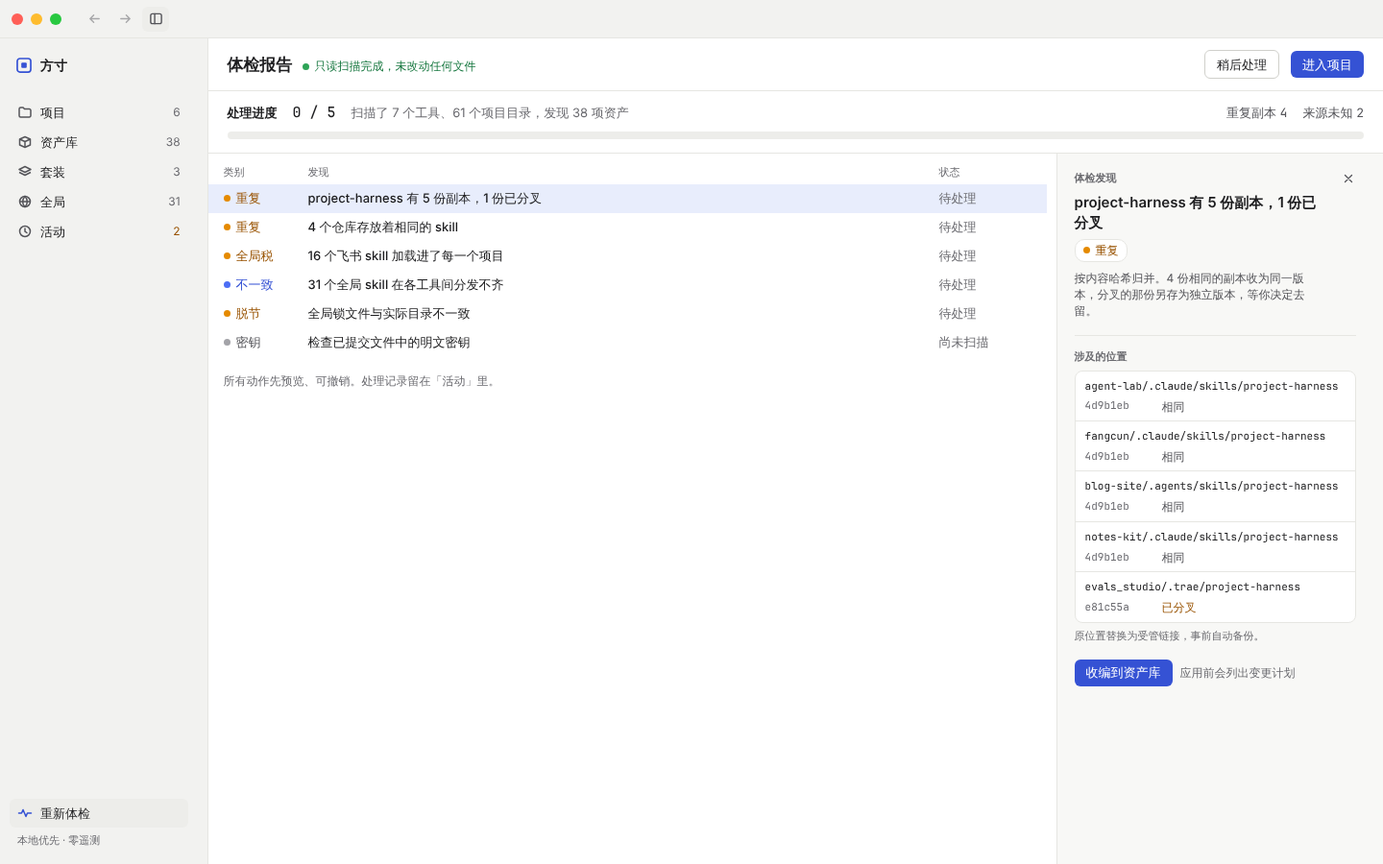
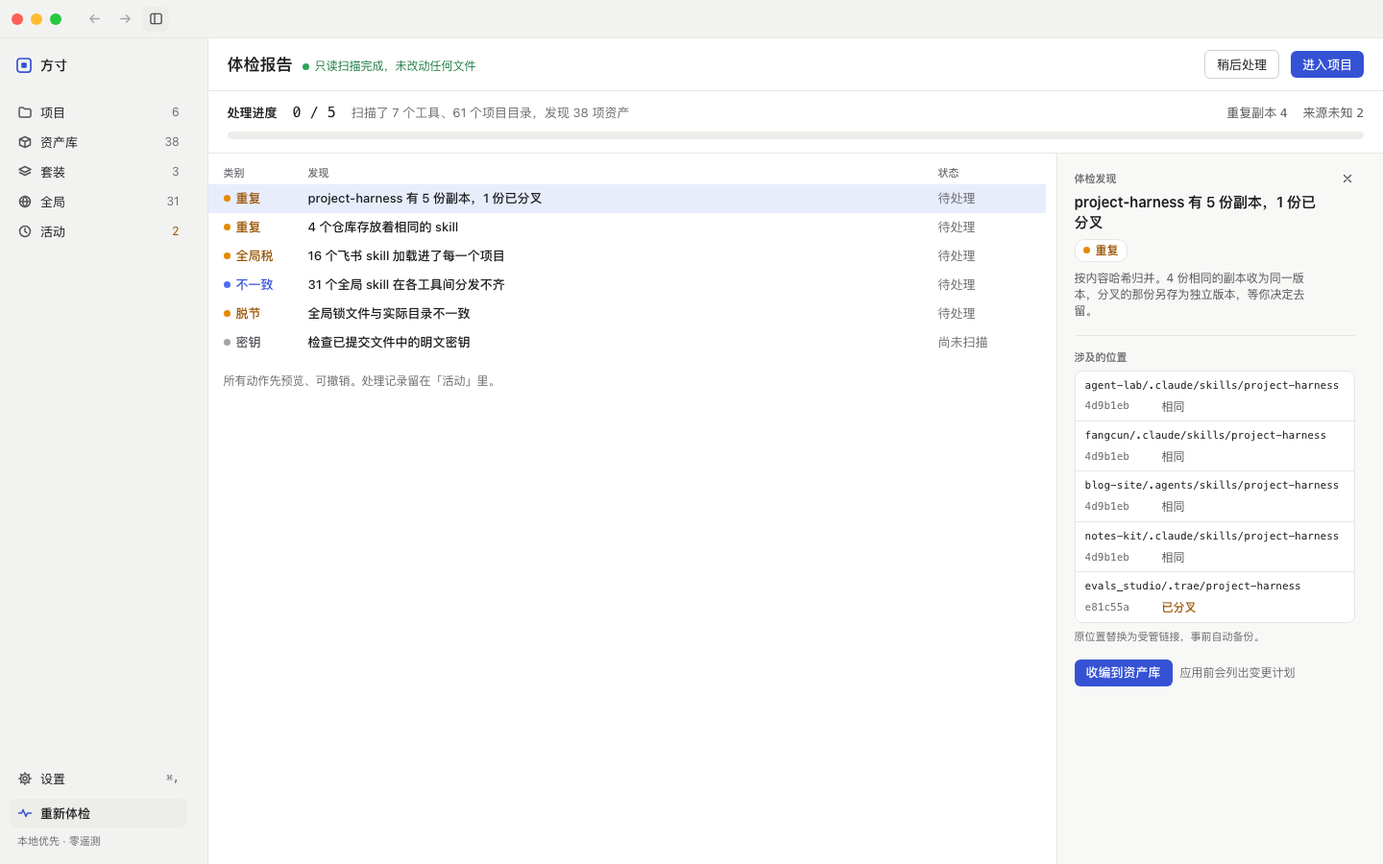
Sidebar: add a Settings entry above Re-run checkup
The human could not find a way into Settings from the sidebar. Every
page board now has a Settings row (gear, ⌘, hint) at the bottom of the
sidebar; on the Settings board the rail's gear shows as selected.
Design doc 6.1 and 9.3 updated; canvas synced to 1795189731-cf46.

diff --git a/prototype/project/Settings.dc.html b/prototype/project/Settings.dc.html
@@ -70,6 +70,10 @@ body{margin:0}
         <svg width="16" height="16" viewBox="0 0 16 16" fill="none" stroke="currentColor" stroke-width="1.5" stroke-linecap="round" aria-hidden="true" style="flex: none; color: var(--tx-2);"><circle cx="8" cy="8" r="5.5"></circle><path d="M8 5v3l2 1.5"></path></svg>
         <span class="{{labelClass}}" style="flex: 1;">活动</span>
       </a>
+      <a href="Settings.dc.html" aria-current="page" class="fc-h" title="设置（⌘,）" style="{{settingsStyle}}">
+        <svg width="16" height="16" viewBox="0 0 16 16" fill="none" stroke="currentColor" stroke-width="1.5" stroke-linecap="round" stroke-linejoin="round" aria-hidden="true" style="flex: none; color: var(--accent);"><circle cx="8" cy="8" r="2"></circle><path d="M8 1.75v1.5M8 12.75v1.5M1.75 8h1.5M12.75 8h1.5M3.6 3.6l1.05 1.05M11.35 11.35l1.05 1.05M3.6 12.4l1.05-1.05M11.35 4.65l1.05-1.05"></path><circle cx="8" cy="8" r="4.5"></circle></svg>
+        <span class="{{labelClass}}" style="flex: 1;">设置</span>
+      </a>
       <a href="Checkup.dc.html" class="fc-h" title="重新体检" style="{{checkupStyle}}">
         <svg width="16" height="16" viewBox="0 0 16 16" fill="none" stroke="currentColor" stroke-width="1.5" stroke-linecap="round" stroke-linejoin="round" aria-hidden="true" style="flex: none; color: var(--tx-2);"><path d="M1.5 8h3l1.5-3.5 3 7 1.5-3.5h4"></path></svg>
         <span class="{{labelClass}}">重新体检</span>
@@ -146,7 +150,8 @@ class Component extends DCLogic {
       // 进设置时导航折成 56px 图标栏；工具栏的侧栏开关可以临时展开。
       railStyle: 'flex: 0 0 ' + (open ? '216px' : '56px') + '; box-sizing: border-box; background: var(--bg-sidebar); border-right: 1px solid var(--line); padding: 12px ' + (open ? '10px' : '8px') + ' 16px; display: flex; flex-direction: column; gap: 1px;',
       navItemStyle: 'display: flex; align-items: center; gap: 8px; height: 30px; padding: 0 ' + (open ? '8px' : '0') + '; border-radius: 6px; color: var(--tx-1); text-decoration: none;' + (open ? '' : ' justify-content: center;'),
-      checkupStyle: 'margin-top: auto; display: flex; align-items: center; gap: 8px; height: 30px; padding: 0 ' + (open ? '8px' : '0') + '; border-radius: 6px; color: var(--tx-1); text-decoration: none;' + (open ? '' : ' justify-content: center;'),
+      settingsStyle: 'margin-top: auto; display: flex; align-items: center; gap: 8px; height: 30px; padding: 0 ' + (open ? '8px' : '0') + '; border-radius: 6px; background: var(--bg-hover); color: var(--tx-1); text-decoration: none; font-weight: 500;' + (open ? '' : ' justify-content: center;'),
+      checkupStyle: 'margin-top: 6px; display: flex; align-items: center; gap: 8px; height: 30px; padding: 0 ' + (open ? '8px' : '0') + '; border-radius: 6px; color: var(--tx-1); text-decoration: none;' + (open ? '' : ' justify-content: center;'),
       labelClass: open ? '' : 'fc-sr',
       navLabel: open ? '折叠侧栏' : '展开侧栏', navExpanded: open ? 'true' : 'false',
       navBtnStyle: 'width: 28px; height: 26px; display: inline-flex; align-items: center; justify-content: center; border: 0; border-radius: 6px; color: var(--tx-2); background: ' + (open ? 'var(--bg-hover)' : 'transparent') + ';',

diff --git a/prototype/project/Checkup.dc.html b/prototype/project/Checkup.dc.html
@@ -71,6 +71,10 @@ body{margin:0}
       </a>
     </div>
     <div style="margin-top: auto; display: flex; flex-direction: column; gap: 6px;">
+      <a href="Settings.dc.html" class="fc-h" title="设置（⌘,）" style="display: flex; align-items: center; gap: 8px; height: 30px; padding: 0 8px; border-radius: 6px; color: var(--tx-1); text-decoration: none;">
+        <svg width="16" height="16" viewBox="0 0 16 16" fill="none" stroke="currentColor" stroke-width="1.5" stroke-linecap="round" stroke-linejoin="round" aria-hidden="true" style="flex: none; color: var(--tx-2);"><circle cx="8" cy="8" r="2"></circle><path d="M8 1.75v1.5M8 12.75v1.5M1.75 8h1.5M12.75 8h1.5M3.6 3.6l1.05 1.05M11.35 11.35l1.05 1.05M3.6 12.4l1.05-1.05M11.35 4.65l1.05-1.05"></path><circle cx="8" cy="8" r="4.5"></circle></svg>
+        <span style="flex: 1;">设置</span><span style="font-family: var(--mono); font-size: 11px; color: var(--tx-3);">⌘,</span>
+      </a>
       <a href="Checkup.dc.html" aria-current="page" class="fc-h" style="display: flex; align-items: center; gap: 8px; height: 30px; padding: 0 8px; border-radius: 6px; background: var(--bg-hover); color: var(--tx-1); text-decoration: none; font-weight: 500;">
         <svg width="16" height="16" viewBox="0 0 16 16" fill="none" stroke="currentColor" stroke-width="1.5" stroke-linecap="round" stroke-linejoin="round" aria-hidden="true" style="color: var(--accent);"><path d="M1.5 8h3l1.5-3.5 3 7 1.5-3.5h4"></path></svg>
         <span>重新体检</span>

diff --git a/prototype/project/Activity.dc.html b/prototype/project/Activity.dc.html
@@ -74,6 +74,10 @@ body{margin:0}
       </a>
     </div>
     <div style="margin-top: auto; display: flex; flex-direction: column; gap: 6px;">
+      <a href="Settings.dc.html" class="fc-h" title="设置（⌘,）" style="display: flex; align-items: center; gap: 8px; height: 30px; padding: 0 8px; border-radius: 6px; color: var(--tx-1); text-decoration: none;">
+        <svg width="16" height="16" viewBox="0 0 16 16" fill="none" stroke="currentColor" stroke-width="1.5" stroke-linecap="round" stroke-linejoin="round" aria-hidden="true" style="flex: none; color: var(--tx-2);"><circle cx="8" cy="8" r="2"></circle><path d="M8 1.75v1.5M8 12.75v1.5M1.75 8h1.5M12.75 8h1.5M3.6 3.6l1.05 1.05M11.35 11.35l1.05 1.05M3.6 12.4l1.05-1.05M11.35 4.65l1.05-1.05"></path><circle cx="8" cy="8" r="4.5"></circle></svg>
+        <span style="flex: 1;">设置</span><span style="font-family: var(--mono); font-size: 11px; color: var(--tx-3);">⌘,</span>
+      </a>
       <a href="Checkup.dc.html" class="fc-h" style="display: flex; align-items: center; gap: 8px; height: 30px; padding: 0 8px; border-radius: 6px; color: var(--tx-1); text-decoration: none;">
         <svg width="16" height="16" viewBox="0 0 16 16" fill="none" stroke="currentColor" stroke-width="1.5" stroke-linecap="round" stroke-linejoin="round" aria-hidden="true" style="color: var(--tx-2);"><path d="M1.5 8h3l1.5-3.5 3 7 1.5-3.5h4"></path></svg>
         <span>重新体检</span>

diff --git a/prototype/project/Bundles.dc.html b/prototype/project/Bundles.dc.html
@@ -72,6 +72,10 @@ body{margin:0}
       </a>
     </div>
     <div style="margin-top: auto; display: flex; flex-direction: column; gap: 6px;">
+      <a href="Settings.dc.html" class="fc-h" title="设置（⌘,）" style="display: flex; align-items: center; gap: 8px; height: 30px; padding: 0 8px; border-radius: 6px; color: var(--tx-1); text-decoration: none;">
+        <svg width="16" height="16" viewBox="0 0 16 16" fill="none" stroke="currentColor" stroke-width="1.5" stroke-linecap="round" stroke-linejoin="round" aria-hidden="true" style="flex: none; color: var(--tx-2);"><circle cx="8" cy="8" r="2"></circle><path d="M8 1.75v1.5M8 12.75v1.5M1.75 8h1.5M12.75 8h1.5M3.6 3.6l1.05 1.05M11.35 11.35l1.05 1.05M3.6 12.4l1.05-1.05M11.35 4.65l1.05-1.05"></path><circle cx="8" cy="8" r="4.5"></circle></svg>
+        <span style="flex: 1;">设置</span><span style="font-family: var(--mono); font-size: 11px; color: var(--tx-3);">⌘,</span>
+      </a>
       <a href="Checkup.dc.html" class="fc-h" style="display: flex; align-items: center; gap: 8px; height: 30px; padding: 0 8px; border-radius: 6px; color: var(--tx-1); text-decoration: none;">
         <svg width="16" height="16" viewBox="0 0 16 16" fill="none" stroke="currentColor" stroke-width="1.5" stroke-linecap="round" stroke-linejoin="round" aria-hidden="true" style="color: var(--tx-2);"><path d="M1.5 8h3l1.5-3.5 3 7 1.5-3.5h4"></path></svg>
         <span>重新体检</span>

diff --git a/prototype/project/Global.dc.html b/prototype/project/Global.dc.html
@@ -74,6 +74,10 @@ body{margin:0}
       </a>
     </div>
     <div style="margin-top: auto; display: flex; flex-direction: column; gap: 6px;">
+      <a href="Settings.dc.html" class="fc-h" title="设置（⌘,）" style="display: flex; align-items: center; gap: 8px; height: 30px; padding: 0 8px; border-radius: 6px; color: var(--tx-1); text-decoration: none;">
+        <svg width="16" height="16" viewBox="0 0 16 16" fill="none" stroke="currentColor" stroke-width="1.5" stroke-linecap="round" stroke-linejoin="round" aria-hidden="true" style="flex: none; color: var(--tx-2);"><circle cx="8" cy="8" r="2"></circle><path d="M8 1.75v1.5M8 12.75v1.5M1.75 8h1.5M12.75 8h1.5M3.6 3.6l1.05 1.05M11.35 11.35l1.05 1.05M3.6 12.4l1.05-1.05M11.35 4.65l1.05-1.05"></path><circle cx="8" cy="8" r="4.5"></circle></svg>
+        <span style="flex: 1;">设置</span><span style="font-family: var(--mono); font-size: 11px; color: var(--tx-3);">⌘,</span>
+      </a>
       <a href="Checkup.dc.html" class="fc-h" style="display: flex; align-items: center; gap: 8px; height: 30px; padding: 0 8px; border-radius: 6px; color: var(--tx-1); text-decoration: none;">
         <svg width="16" height="16" viewBox="0 0 16 16" fill="none" stroke="currentColor" stroke-width="1.5" stroke-linecap="round" stroke-linejoin="round" aria-hidden="true" style="color: var(--tx-2);"><path d="M1.5 8h3l1.5-3.5 3 7 1.5-3.5h4"></path></svg>
         <span>重新体检</span>

diff --git a/prototype/project/Library.dc.html b/prototype/project/Library.dc.html
@@ -72,6 +72,10 @@ body{margin:0}
       </a>
     </div>
     <div style="margin-top: auto; display: flex; flex-direction: column; gap: 6px;">
+      <a href="Settings.dc.html" class="fc-h" title="设置（⌘,）" style="display: flex; align-items: center; gap: 8px; height: 30px; padding: 0 8px; border-radius: 6px; color: var(--tx-1); text-decoration: none;">
+        <svg width="16" height="16" viewBox="0 0 16 16" fill="none" stroke="currentColor" stroke-width="1.5" stroke-linecap="round" stroke-linejoin="round" aria-hidden="true" style="flex: none; color: var(--tx-2);"><circle cx="8" cy="8" r="2"></circle><path d="M8 1.75v1.5M8 12.75v1.5M1.75 8h1.5M12.75 8h1.5M3.6 3.6l1.05 1.05M11.35 11.35l1.05 1.05M3.6 12.4l1.05-1.05M11.35 4.65l1.05-1.05"></path><circle cx="8" cy="8" r="4.5"></circle></svg>
+        <span style="flex: 1;">设置</span><span style="font-family: var(--mono); font-size: 11px; color: var(--tx-3);">⌘,</span>
+      </a>
       <a href="Checkup.dc.html" class="fc-h" style="display: flex; align-items: center; gap: 8px; height: 30px; padding: 0 8px; border-radius: 6px; color: var(--tx-1); text-decoration: none;">
         <svg width="16" height="16" viewBox="0 0 16 16" fill="none" stroke="currentColor" stroke-width="1.5" stroke-linecap="round" stroke-linejoin="round" aria-hidden="true" style="color: var(--tx-2);"><path d="M1.5 8h3l1.5-3.5 3 7 1.5-3.5h4"></path></svg>
         <span>重新体检</span>

diff --git a/prototype/project/Main.dc.html b/prototype/project/Main.dc.html
@@ -103,6 +103,10 @@ body{margin:0}
     </div>
 
     <div style="margin-top: auto; display: flex; flex-direction: column; gap: 6px;">
+      <a href="Settings.dc.html" class="fc-h" title="设置（⌘,）" style="display: flex; align-items: center; gap: 8px; height: 30px; padding: 0 8px; border-radius: 6px; color: var(--tx-1); text-decoration: none;">
+        <svg width="16" height="16" viewBox="0 0 16 16" fill="none" stroke="currentColor" stroke-width="1.5" stroke-linecap="round" stroke-linejoin="round" aria-hidden="true" style="flex: none; color: var(--tx-2);"><circle cx="8" cy="8" r="2"></circle><path d="M8 1.75v1.5M8 12.75v1.5M1.75 8h1.5M12.75 8h1.5M3.6 3.6l1.05 1.05M11.35 11.35l1.05 1.05M3.6 12.4l1.05-1.05M11.35 4.65l1.05-1.05"></path><circle cx="8" cy="8" r="4.5"></circle></svg>
+        <span style="flex: 1;">设置</span><span style="font-family: var(--mono); font-size: 11px; color: var(--tx-3);">⌘,</span>
+      </a>
       <a href="Checkup.dc.html" class="fc-h" style="display: flex; align-items: center; gap: 8px; height: 30px; padding: 0 8px; border-radius: 6px; color: var(--tx-1); text-decoration: none;">
         <svg width="16" height="16" viewBox="0 0 16 16" fill="none" stroke="currentColor" stroke-width="1.5" stroke-linecap="round" stroke-linejoin="round" aria-hidden="true" style="color: var(--tx-2);"><path d="M1.5 8h3l1.5-3.5 3 7 1.5-3.5h4"></path></svg>
         <span>重新体检</span>

diff --git a/docs/product-design.md b/docs/product-design.md
@@ -302,13 +302,13 @@ fangcun --yes <命令>           # 不问，直接应用变更计划
 - **主窗口**：自上而下是整窗工具栏，下面是侧栏、列表、检查器三栏。
 - **菜单栏常驻图标**：有漂移或可更新时图标右上角亮一个小圆点，展开的菜单里写待处理数，与活动页的待处理数一致，可快速跳到项目。图标的画法见 6.10。
 - **命令面板** `⌘K`：搜索资产、项目、动作。键盘优先。
-- **设置**：应用菜单的「设置…」或 `⌘,` 打开，显示在主窗口里，不另开窗口。侧栏折成 56px 图标栏，旁边是设置目录，右边是设置内容；点图标栏的导航项回到对应页面。先只有「通用」一页，页内分两组：「写入」放只读模式开关（7.5），「快照」放保留期（天数和每个项目至少保留几个，6.7）。目录上方不放搜索框，设置多了再加。设置存在 `~/.fangcun/settings.toml`，可以手改。
+- **设置**：应用菜单的「设置…」或 `⌘,` 打开，显示在主窗口里，不另开窗口。侧栏底部也有入口「设置」，见下面「侧栏」。打开后侧栏折成 56px 图标栏，旁边是设置目录，右边是设置内容；点图标栏的导航项回到对应页面。先只有「通用」一页，页内分两组：「写入」放只读模式开关（7.5），「快照」放保留期（天数和每个项目至少保留几个，6.7）。目录上方不放搜索框，设置多了再加。设置存在 `~/.fangcun/settings.toml`，可以手改。
 - **命令行** `fangcun`：见上节。
 
 **窗口骨架**，所有页面共用：
 
 - **整窗工具栏**：高 40px，贯穿窗口顶部。从左到右依次是窗口按钮、后退与前进、侧栏开关。窗口控件只出现在这里，侧栏折叠与否都不影响左上角。
-- **侧栏**：顶部是「方寸」标识，下面五个导航项：**项目**、**资产库**、**套装**、**全局**、**活动**。前四项旁的灰色数字是数量，「活动」旁的橙色数字是待处理数。项目页下方列出已登记项目及其状态点。M0 没有登记，列的是近 30 天会话记录里出现过的工作目录，往上归到 git 根目录（主目录本身、临时目录、主目录下的点目录不算），分组标题写「近 30 天的项目」。M1 起分两组：上面是「已登记项目」，下面「近 30 天的项目」只列还没登记的目录，标「未登记」，选中后检查器里有「登记」。未登记的目录照常只读显示生效上下文，和 M0 一样：页头标「未登记」，不出「同步」。两组下面是「添加项目…」，选一个目录登记（F3）。底部固定「重新体检」，下面一行小字「本地优先 · 零遥测」。侧栏可折叠为 56px 宽的图标栏，此时只保留导航图标。
+- **侧栏**：顶部是「方寸」标识，下面五个导航项：**项目**、**资产库**、**套装**、**全局**、**活动**。前四项旁的灰色数字是数量，「活动」旁的橙色数字是待处理数。项目页下方列出已登记项目及其状态点。M0 没有登记，列的是近 30 天会话记录里出现过的工作目录，往上归到 git 根目录（主目录本身、临时目录、主目录下的点目录不算），分组标题写「近 30 天的项目」。M1 起分两组：上面是「已登记项目」，下面「近 30 天的项目」只列还没登记的目录，标「未登记」，选中后检查器里有「登记」。未登记的目录照常只读显示生效上下文，和 M0 一样：页头标「未登记」，不出「同步」。两组下面是「添加项目…」，选一个目录登记（F3）。底部固定「设置」（齿轮图标，右边灰字 `⌘,`）和「重新体检」，下面一行小字「本地优先 · 零遥测」。侧栏可折叠为 56px 宽的图标栏，此时只保留导航图标。
 - **列表与检查器**：选中列表中的一行，右侧检查器显示详情。检查器右上角有 × 关闭按钮，关闭后列表占满宽度；再点任意一行即重新打开。
 - **分栏独立滚动**：窗口固定为一屏高，侧栏、列表、检查器各自滚动，滚动一栏时其他栏不动。窗口窄于 900px 时，各栏改为上下堆叠，整页滚动。
 
@@ -1096,12 +1096,13 @@ git-commit = { source = "local:luyao-skills", pin = "0d81aa3" }
 |---|---|
 | 选中未登记的目录时列表区显示什么 | 照常只读显示生效上下文，和 M0 一样；页头标「未登记」，不出「同步」（6.1） |
 
-**设置改成主窗口内（M1-24）**，2026-11-20 人看了 P-03 的原型后改，两件都选了推荐项。
+**设置改成主窗口内（M1-24）**，2026-11-20 人看了 P-03 的原型后改，三件都选了推荐项。
 
 | 事项 | 结论 |
 |---|---|
 | 设置在哪里打开 | `⌘,` 或「设置…」后在主窗口里显示：侧栏折成 56px 图标栏，旁边是设置目录，右边是内容。不另开窗口（6.1） |
 | 目录怎么分 | 先只有一页「通用」，页内分「写入」「快照」两组；不放搜索框（6.1） |
+| 侧栏里的入口 | 侧栏底部「重新体检」上面加一行「设置」，右边灰字 `⌘,`；折成图标栏时只留齿轮，在设置页里显示为选中（6.1） |
 
 ### 9.4 建议的下一步
 

diff --git a/docs/BACKLOG.md b/docs/BACKLOG.md
@@ -53,6 +53,7 @@
 - [x] P-02 项目页画板（Main）的侧栏：「近 30 天的项目」一组下面加「添加项目…」；选中 luyao-skills（未登记）时，检查器里有「登记」按钮；点「登记」后先问一次物化方式（链接 / 入库，按提交者人数给建议），再出变更计划。出处：6.1、F3、9.2「默认物化方式」、M1-pre-06。2026-11-20 完成；列表区照常只读显示生效上下文（人定，9.3），人看 H-08
 - [x] P-03 新画板「设置」（Settings）：应用菜单「设置…」/ `⌘,` 打开的单独小窗，macOS 标准样式，只有「通用」一页：「只读模式」开关（说明一句：打开后拒绝一切写入，只记体检）、「快照保留期」两项（保留天数，默认 30；每个项目至少保留，默认 20）。深浅两套。出处：6.1「设置窗口」、6.7、7.5、M1-24。2026-11-20 完成，人看 H-08
 - [x] P-04 设置画板（Settings）改成主窗口内、Codex 的样式：`⌘,` 后侧栏折成 56px 图标栏，旁边是设置目录（只有「通用」），右边内容分「写入」「快照」两组卡片，不放搜索框；深浅色用画板的 `dark` 调节项。出处：6.1「设置」、9.3（2026-11-20 人看了 P-03 后改）。2026-11-20 完成，画布 1795189539-47ed
+- [x] P-05 全部页面画板（Main、Checkup、Library、Bundles、Global、Activity）的侧栏底部、「重新体检」上面加「设置」（齿轮，右边灰字 `⌘,`）；Settings 画板图标栏的齿轮显示为选中。出处：6.1「侧栏」、9.3（2026-11-20 人说找不到入口）。2026-11-20 完成，画布 1795189731-cf46
 
 ## 设计与原型
 
@@ -173,7 +174,7 @@
 - [ ] M1-20 界面：资产库页，照原型 Library。来源未知的项在底部给「收编到资产库」。出处：6.4
 - [ ] M1-21 界面：套装页，照原型 Bundles。出处：6.5
 - [ ] M1-22 界面：项目页检查器的来源未知块「在资产库中收编」，以及命令面板 `⌘K`（搜索、回车加入、弹变更计划）。`fangcun add`。出处：6.3、6.9
-- [ ] M1-24 设置页：只读模式（7.5）、快照保留期（6.7）都写「在设置里」。现在能手改 `~/.fangcun/settings.toml`。出处：6.1、6.7、7.5。2026-11-19 人定：macOS 标准的「设置…」小窗（`⌘,`），先只有「通用」一页，写进 6.1、9.3。2026-11-20 人改成主窗口内、Codex 的样式（6.1、9.3），原型 P-04 已就绪（Settings 画板，1795189539-47ed）
+- [ ] M1-24 设置页：只读模式（7.5）、快照保留期（6.7）都写「在设置里」。现在能手改 `~/.fangcun/settings.toml`。出处：6.1、6.7、7.5。2026-11-19 人定：macOS 标准的「设置…」小窗（`⌘,`），先只有「通用」一页，写进 6.1、9.3。2026-11-20 人改成主窗口内、Codex 的样式（6.1、9.3），侧栏底部加「设置」入口（P-05）。原型已就绪（Settings 画板与各页侧栏，1795189731-cf46）
 - [ ] M1-23 命令行对齐：第 5 节「配套：命令行」的每条命令都能用，`why`、`log` 覆盖 M1 的新记录类型；界面每个写入动作在活动页附命令。出处：第 5 节、6.7
 
 不在 M1：菜单栏常驻图标（6.1，等 D-30 出图后排）、V1.x 起的事。

diff --git a/docs/DECISIONS.md b/docs/DECISIONS.md
@@ -17,7 +17,8 @@
   - P-02 登记：未登记时不出「清单」「历史」两个页签（没有清单，也没有写入记录）；列表顶上一句「未登记：下面是 Claude Code 在这个目录实际加载的内容，只读」。侧栏项目行改成可点的按钮（示例只有 evals_studio、luyao-skills 能切换）；未登记时检查器显示「项目」卡片（路径、清单、提交者、常驻）和「登记…」按钮；登记弹窗两个选项「链接」「入库」，按提交者人数标「建议」并写出依据；变更计划写 3 个文件：`fangcun.toml`、`fangcun.lock`、`~/.fangcun/projects.toml`（照内核 `plan_init`）；应用后留快照 #128，检查器里可撤销，luyao-skills 挪进「已登记项目」，「项目」计数加一。「添加项目…」点了打开系统的选择文件夹面板，原型里不画。示例数据新加了「提交者 1 位」「项目层没有发现资产」两条。
   - P-03 设置：先按原设计画成单独小窗（浅色、深色两扇并排），人看后改了，见下一条「改设置的样式」。现在的画板里，Agent 定的是：图标栏不显示数字和标志；工具栏的「后退」回项目页，侧栏开关可以临时展开导航；每一行左边标题加一句说明，右边是控件；页底一行写设置文件的位置。
 - **改设置的样式（人定）**：人看了 P-03 后说「设置页我想改为codex这种形式」，附了 Codex 设置页的截图。Agent 问两件：在哪里打开（主窗口内侧栏折成图标栏（推荐）／主窗口内占满整窗／仍是单独窗口换布局），目录怎么分（一页「通用」页内分两组（推荐）／一页加搜索框／拆成两页）。人都选推荐项。推翻了 2026-11-19 的「macOS 标准的设置小窗」，6.1、9.3 已改；原型见 P-04，画布到 1795189539-47ed。
-- 影响：BACKLOG P-01 至 P-04 完成，加 H-08；`prototype/` 同步到 1795189539-47ed；Main 的示例数据落后（实现 M1-25 时跟上）。
+- **侧栏加设置入口（人定）**：人看了新的设置画板后问「侧栏这里怎么进入设置页，我没找到入口」。原设计只有 `⌘,` 和应用菜单。Agent 问放哪里：底部加一行「设置」（推荐）／「重新体检」右边放齿轮／第六个导航项／不加。人选推荐项。改 6.1、9.3；原型见 P-05，6 张页面画板的侧栏都改了，画布到 1795189731-cf46。
+- 影响：BACKLOG P-01 至 P-05 完成，加 H-08；`prototype/` 同步到 1795189731-cf46；有示例数据的 4 张画板（Main、Checkup、Global、Activity）会显示落后，实际只差侧栏的「设置」一行和 Main 的登记流程（实现 M1-24、M1-25 时跟上）。
 
 ---
 

diff --git a/docs/STATUS.md b/docs/STATUS.md
@@ -10,8 +10,8 @@ M0（透视版，只读）完成，M1 进行中。第一段（地基）与第二
 
 - **能用的**：命令行 `doctor`、`status`、`why`、`log`、`init [--from-existing]`、`lock`、`export skills-lock`、`sync [--frozen]`、`rollback N`、`adopt`。桌面应用还是 M0 的只读界面，写入按钮置灰（批 3 接）。
 - **没做的写入**：用了 `secret:` 的 MCP（M1-17）、个人覆盖的 MCP（M1-27）、`[disable]`（M1-18）。同步时在计划里提示。
-- **原型**：本地终端会话第一次改画布并发布成功。P-01 应用图标、P-02 登记入口、P-03 设置已画；人看后把设置改成主窗口内、Codex 的样式（P-04，6.1、9.3 已改），`prototype/` 同步到 1795189539-47ed（分支 `prototype-p01-p03`，PR #32）。新画板 `Settings`。人定三件：未登记的目录照常只读显示生效上下文；设置在主窗口里打开、侧栏折成图标栏；设置只有一页「通用」，分两组（9.3）。
-- **示例数据**：Main 落后（侧栏可点、未登记视图、登记流程），实现 M1-25 时跟上再 `pnpm workflow accept Main`。其余 accept 到 1794656963-e22c，那几张画板没变。
+- **原型**：本地终端会话第一次改画布并发布成功。P-01 应用图标、P-02 登记入口、P-03 设置已画；人看后把设置改成主窗口内、Codex 的样式（P-04），侧栏底部加了「设置」入口（P-05），`prototype/` 同步到 1795189731-cf46（分支 `prototype-p01-p03`，PR #32）。新画板 `Settings`。人定三件：未登记的目录照常只读显示生效上下文；设置在主窗口里打开、侧栏折成图标栏；设置只有一页「通用」，分两组；侧栏底部加「设置」入口（9.3）。
+- **示例数据**：Main、Checkup、Global、Activity 显示落后。共同的只有侧栏多一行「设置」（M1-24 做），Main 还多了未登记视图和登记流程（M1-25 做）。做完再 `pnpm workflow accept <画板>`。
 - **检查**：`check.js` 8 张画板全过。这次没动代码，没跑 `pnpm check`。
 
 ## 下一步

diff --git a/docs/LOG.md b/docs/LOG.md
@@ -8,7 +8,7 @@
 
 - 本地终端会话第一次用 Artifact 工具改画布：先读画布，内容和 `prototype/` 一致（只是版本号变了）；改 Main、DesignSystem，新增 Settings，一次发布到 1795188646-7074，再读回 `prototype/`，`check.js` 8 张全过。
 - P-01 设计系统加「08 应用图标」：三种外观、网格与比例、小尺寸、菜单栏模板图与待处理圆点。P-02 项目页侧栏可切换，未登记的 luyao-skills 只读显示生效上下文，「登记…」→ 选物化方式 → 3 个文件的变更计划 → 可撤销。P-03 新画板「设置 · 通用」，深浅两扇窗。
-- 问人一件（未登记时列表区显示什么），人选推荐项，写进 6.1、9.3。Agent 补的细节记 DECISIONS，进 H-08 等人看。人看了设置画板后改成主窗口内、Codex 的样式（问两件，都选推荐项，改 6.1、9.3），重画 Settings 成整窗画板，发布到 1795189539-47ed（P-04）。没做：Main 示例数据（M1-25 时跟上）、D-30 出图。
+- 问人一件（未登记时列表区显示什么），人选推荐项，写进 6.1、9.3。Agent 补的细节记 DECISIONS，进 H-08 等人看。人看了设置画板后改成主窗口内、Codex 的样式（问两件，都选推荐项，改 6.1、9.3），重画 Settings 成整窗画板（P-04）；人找不到入口，又在各页侧栏底部加「设置」（P-05），发布到 1795189731-cf46。没做：Main 示例数据（M1-25 时跟上）、D-30 出图。
 
 ---
 
